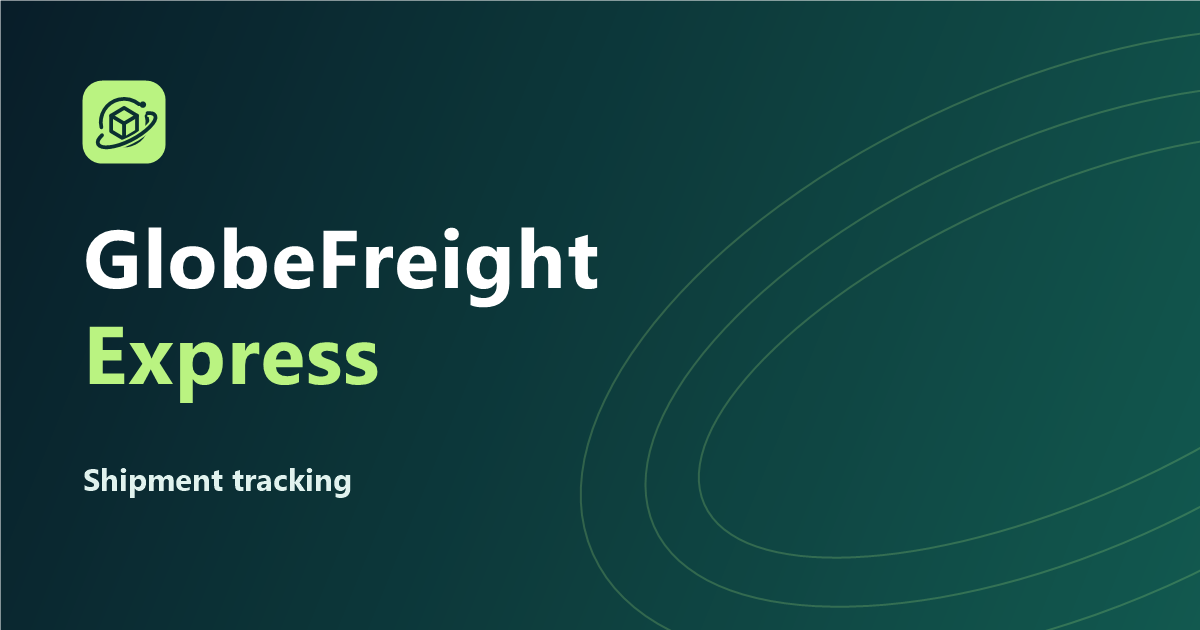
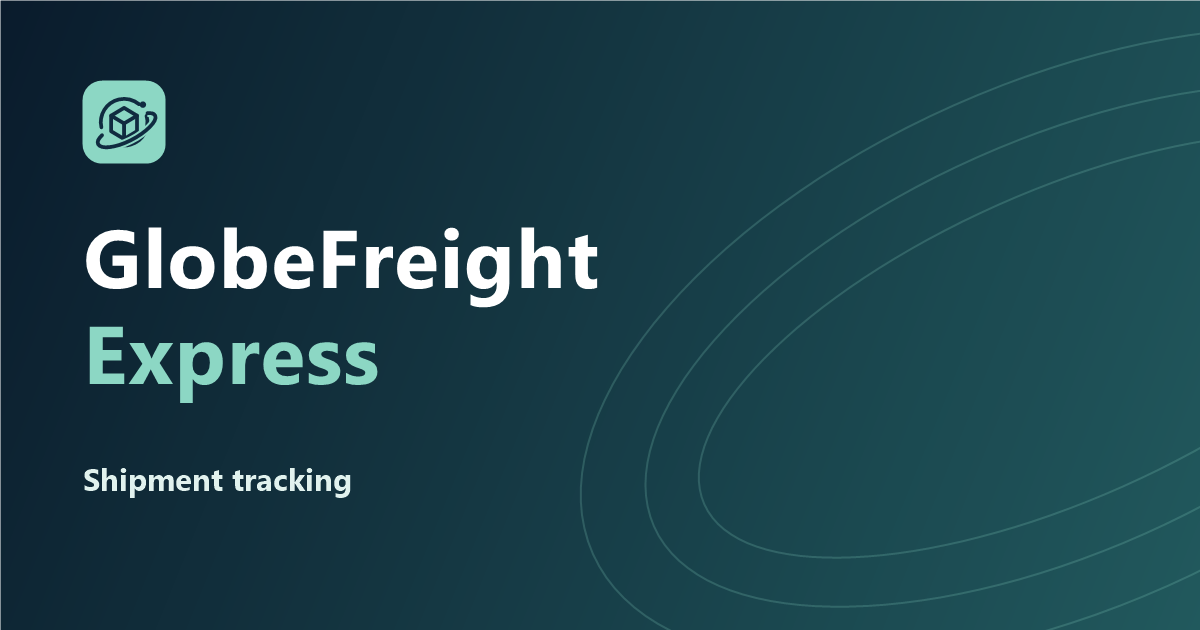
colour

Changed region(s): [[0.0617, 0.5127, 0.3392, 0.6333], [0.0617, 0.1206, 0.1542, 0.2714]]

diff --git a/site/assets/style.css b/site/assets/style.css
@@ -1,5 +1,5 @@
 @import url('https://fonts.googleapis.com/css2?family=Manrope:wght@400;500;600;700;800&family=Space+Grotesk:wght@500;600;700&display=swap');
-:root{color-scheme:light;--navy:#102630;--deep:#091d26;--ink:#152a32;--muted:#4c626b;--teal:#006457;--lime:#baf381;--paper:#f3f7f7;--line:#dce7e7;--white:#fff;font:16px/1.55 Manrope,system-ui,sans-serif}
+:root{color-scheme:light;--navy:#142c40;--deep:#0a1b2c;--ink:#172c40;--muted:#4b6172;--teal:#096c68;--accent:#8cd7c4;--paper:#f3f6f8;--line:#dce5eb;--white:#fff;font:16px/1.55 Manrope,system-ui,sans-serif}
 *{box-sizing:border-box}
 [hidden]{display:none!important}
 body{margin:0;background:var(--paper);color:var(--ink);min-width:300px}
@@ -13,21 +13,21 @@ button:disabled{opacity:.6;cursor:wait}
 .header{background:var(--deep);color:#fff}
 .header-inner,.footer-inner{display:flex;align-items:center;justify-content:space-between;min-height:76px;gap:1rem}
 .brand{display:inline-flex;align-items:center;gap:.7rem;font-family:"Space Grotesk",system-ui,sans-serif;font-size:1.24rem;font-weight:700;line-height:1.05;letter-spacing:-.04em}
-.brand small{display:block;font-family:Manrope,system-ui,sans-serif;font-size:.72rem;letter-spacing:.21em;margin-top:5px;color:var(--lime)}
-.brand-mark{background:var(--lime);color:var(--deep);border-radius:10px;width:42px;height:42px;display:grid;place-items:center;font-size:1.9rem;line-height:1}
+.brand small{display:block;font-family:Manrope,system-ui,sans-serif;font-size:.72rem;letter-spacing:.21em;margin-top:5px;color:var(--accent)}
+.brand-mark{background:var(--accent);color:var(--deep);border-radius:10px;width:42px;height:42px;display:grid;place-items:center;font-size:1.9rem;line-height:1}
 nav{display:flex;align-items:center;gap:1.65rem;font-weight:700;font-size:.9rem}
 nav a:hover{text-decoration:underline}
 .portal-link{border:1px solid #4c606a;border-radius:8px;padding:.55rem .9rem}
-.hero{min-height:484px;background-color:#102e39;background-image:linear-gradient(90deg,#071d27 3%,rgba(7,29,39,.92) 28%,rgba(7,29,39,.34) 68%,rgba(7,29,39,.11)),url('https://images.unsplash.com/photo-1724597500306-a4cbb7d1324e?auto=format&fit=crop&w=1700&q=82');background-position:center,center 50%;background-size:cover;color:white}
+.hero{min-height:484px;background-color:#102e39;background-image:linear-gradient(90deg,#091d30 3%,rgba(9,29,48,.92) 28%,rgba(9,29,48,.34) 68%,rgba(9,29,48,.11)),url('https://images.unsplash.com/photo-1724597500306-a4cbb7d1324e?auto=format&fit=crop&w=1700&q=82');background-position:center,center 50%;background-size:cover;color:white}
 .hero-inner{padding-block:5.25rem 8rem}
 .eyebrow{display:flex;align-items:center;gap:.55rem;font-size:.875rem;font-weight:800;letter-spacing:.14em;margin:0 0 1rem}
-.eyebrow span{width:21px;height:2px;background:var(--lime)}
+.eyebrow span{width:21px;height:2px;background:var(--accent)}
 h1,h2,h3{font-family:"Space Grotesk",system-ui,sans-serif;line-height:1.1;margin:0;letter-spacing:-.035em}
 .hero h1{font-size:clamp(2.65rem,6.1vw,5.15rem);max-width:900px}
-.hero em{font-style:normal;color:var(--lime)}
+.hero em{font-style:normal;color:var(--accent)}
 .hero p:last-child{margin:1.35rem 0 0;color:#d8e5e9;font-size:clamp(1rem,2vw,1.15rem);max-width:510px}
 .tracking-area{position:relative;margin-top:-65px;padding-bottom:4rem;scroll-margin-top:1rem}
-.card{background:white;border:1px solid var(--line);border-radius:17px;padding:clamp(1.05rem,3.5vw,2rem);box-shadow:0 12px 35px #1026300a}
+.card{background:white;border:1px solid var(--line);border-radius:17px;padding:clamp(1.05rem,3.5vw,2rem);box-shadow:0 12px 35px #142c400a}
 .tracking-card{max-width:900px}
 .tracking-heading{display:flex;gap:1rem;align-items:center;margin-bottom:1.2rem}
 .tracking-heading h2{font-size:clamp(1.45rem,4vw,2rem)}
@@ -90,16 +90,16 @@ code{overflow-wrap:anywhere}
 .staff-create .status-message{margin-bottom:0}
 
 /* Team dashboard */
-.header{border-bottom:1px solid #29424b}
+.header{border-bottom:1px solid #263e51}
 .brand-mark{display:block;flex:none}
-.portal-heading{position:relative;isolation:isolate;overflow:hidden;padding:clamp(1.3rem,4vw,2.6rem);min-height:182px;border-radius:18px;color:#fff;background:radial-gradient(ellipse at 95% 30%,#126459 0%,transparent 55%),linear-gradient(112deg,#091f2b,#103540)}
+.portal-heading{position:relative;isolation:isolate;overflow:hidden;padding:clamp(1.3rem,4vw,2.6rem);min-height:182px;border-radius:18px;color:#fff;background:radial-gradient(ellipse at 95% 30%,#245d60 0%,transparent 55%),linear-gradient(112deg,#102538,#193b49)}
 .portal-heading::before,.portal-heading::after{content:"";position:absolute;z-index:-1;pointer-events:none;border:1px solid #a3edba55;border-radius:50%;width:460px;height:218px;right:-60px;top:-60px;transform:rotate(-24deg)}
 .portal-heading::after{width:530px;height:310px;top:-47px;right:-125px;opacity:.6}
-.portal .eyebrow{color:#baf381}
-.portal .eyebrow span{background:#baf381}
+.portal .eyebrow{color:#8cd7c4}
+.portal .eyebrow span{background:#8cd7c4}
 .portal-actions{display:flex;flex-wrap:wrap;gap:.55rem}
-.portal-actions #new-shipment{background:#baf381;color:#172b23}
-.portal-actions #logout{border-color:#598078;color:#fff;background:#13373e}
+.portal-actions #new-shipment{background:#8cd7c4;color:#172b23}
+.portal-actions #logout{border-color:#598078;color:#fff;background:#193748}
 .portal-identity{color:#d0e2e4;margin:.65rem 0 0;overflow-wrap:anywhere}
 .dashboard-metrics{display:grid;grid-template-columns:repeat(3,minmax(0,1fr));gap:1rem;margin-bottom:1.1rem}
 .metric{display:flex;gap:.85rem;align-items:flex-start;padding:1.15rem;min-height:110px}
@@ -128,12 +128,12 @@ code{overflow-wrap:anywhere}
 .brand-mark{object-fit:contain;background:transparent}
 .icon-box svg,.milestone-icon svg,.metric-icon svg{display:block;width:23px;height:23px}
 /* Public homepage navigation and help */
-.skip-link{position:absolute;z-index:2;top:.6rem;left:.6rem;transform:translateY(-180%);padding:.65rem .9rem;border-radius:7px;background:var(--lime);color:var(--deep);font-weight:800}
+.skip-link{position:absolute;z-index:2;top:.6rem;left:.6rem;transform:translateY(-180%);padding:.65rem .9rem;border-radius:7px;background:var(--accent);color:var(--deep);font-weight:800}
 .skip-link:focus{transform:none}
 .header-inner{gap:1.5rem}
 .main-nav{gap:clamp(.8rem,2vw,1.6rem)}
 .main-nav a{white-space:nowrap}
-.main-nav .portal-link{color:var(--lime);border-color:#56736c}
+.main-nav .portal-link{color:var(--accent);border-color:#587384}
 .tracking-area{padding-bottom:0}
 .tracking-help-link{display:inline-block;margin-top:.75rem}
 .home-milestones{padding-block:clamp(2.4rem,6vw,4.4rem)}
@@ -142,7 +142,7 @@ code{overflow-wrap:anywhere}
 .home-milestones .milestones{gap:1rem;margin-top:1.4rem}
 .home-milestones article{background:#fff;border:1px solid var(--line);border-radius:13px;padding:1rem;min-width:0}
 .home-milestones h3{font-size:1.2rem}
-.home-help{background:#e9f2ef;border-block:1px solid #d6e6df;padding-block:clamp(2rem,5vw,3.8rem)}
+.home-help{background:#edf4f4;border-block:1px solid #d9e7ea;padding-block:clamp(2rem,5vw,3.8rem)}
 .help-grid{display:grid;grid-template-columns:minmax(210px,1fr) minmax(0,1.7fr);gap:clamp(1rem,4vw,3rem)}
 .faq-list{display:grid;gap:.55rem}
 .faq-list details{background:#fff;border:1px solid #d6e5df;border-radius:10px;padding:.85rem 1rem}
@@ -154,14 +154,14 @@ code{overflow-wrap:anywhere}
 .footer-nav{display:grid;grid-template-columns:repeat(2,minmax(0,1fr));align-items:start;gap:1.3rem;font-size:.9375rem}
 .footer-nav h2{color:#fff;font-size:1.05rem;margin-bottom:.7rem}
 .footer-nav a{display:block;width:fit-content;margin-top:.45rem}
-.footer-bottom{border-top:1px solid #29424b;display:flex;justify-content:space-between;gap:.8rem;padding-block:1rem;font-size:.875rem}
+.footer-bottom{border-top:1px solid #263e51;display:flex;justify-content:space-between;gap:.8rem;padding-block:1rem;font-size:.875rem}
 .footer-bottom a:hover{text-decoration:underline}
 @media(max-width:780px){.header-inner{flex-wrap:wrap;gap:.85rem;padding-block:.85rem}.main-nav{flex-wrap:wrap}.home-milestones .milestones{grid-template-columns:1fr}.help-grid{grid-template-columns:1fr}}
 @media(max-width:480px){.main-nav a:first-child{display:inline}.main-nav{gap:.45rem .8rem}.main-nav .portal-link{padding:.35rem .55rem}.footer-grid{grid-template-columns:1fr;gap:1.1rem}}
-.company-panel{display:flex;align-items:center;justify-content:space-between;gap:1.5rem;border-radius:18px;padding:clamp(1.3rem,4vw,2.5rem);background:linear-gradient(114deg,#091d26,#10574e);color:#fff}
-.company-panel .eyebrow{color:var(--lime)}
+.company-panel{display:flex;align-items:center;justify-content:space-between;gap:1.5rem;border-radius:18px;padding:clamp(1.3rem,4vw,2.5rem);background:linear-gradient(114deg,#0a1b2c,#10574e);color:#fff}
+.company-panel .eyebrow{color:var(--accent)}
 .company-panel p:last-child{max-width:64ch;margin:.85rem 0 0;color:#e0eeed}
-.section-cta{flex:none;display:inline-block;background:var(--lime);color:var(--deep);padding:.75rem 1rem;border-radius:8px;font-weight:800}
+.section-cta{flex:none;display:inline-block;background:var(--accent);color:var(--deep);padding:.75rem 1rem;border-radius:8px;font-weight:800}
 .section-cta:hover{text-decoration:underline}
 .location-grid{display:grid;grid-template-columns:repeat(3,minmax(0,1fr));gap:1rem;margin-top:1.25rem}
 .location-card{padding:1.25rem}
@@ -171,7 +171,7 @@ code{overflow-wrap:anywhere}
 .contact-section h3{font-size:1.45rem}
 .form-guidance{margin:0;font-size:.9rem}
 .footer-nav{grid-template-columns:repeat(3,minmax(0,1fr))}
-.portal-actions .portal-inbox-button{background:#13373e;color:#fff;border-color:#598078}
+.portal-actions .portal-inbox-button{background:#193748;color:#fff;border-color:#598078}
 .inbox-panel .section-header{border-bottom:1px solid var(--line);padding-bottom:1rem}
 .inbox-panel .section-header p,.inbox-panel .actions{margin:.45rem 0 0}
 .complaint-record{border:1px solid var(--line);border-radius:10px;margin-block:.8rem;padding:.9rem 1rem;overflow-wrap:anywhere}
@@ -230,24 +230,24 @@ code{overflow-wrap:anywhere}
 .booking-card textarea,.booking-panel textarea{min-height:7rem}
 .booking-sensitive{white-space:pre-wrap}
 /* Public site pages */
-.hero{background-image:linear-gradient(90deg,#071d27 2%,rgba(7,29,39,.93) 28%,rgba(7,29,39,.34) 69%,rgba(7,29,39,.11)),url('freight-ocean.jpg')}
+.hero{background-image:linear-gradient(90deg,#091d30 2%,rgba(9,29,48,.93) 28%,rgba(9,29,48,.34) 69%,rgba(9,29,48,.11)),url('freight-ocean.jpg')}
 .home-hero{min-height:555px}
 .home-hero .hero-inner{padding-block:clamp(4.5rem,9vw,7.5rem)}
-.home-hero .eyebrow{color:var(--lime)}
+.home-hero .eyebrow{color:var(--accent)}
 .home-hero .hero-inner>p:not(.eyebrow){color:#dbe9e9;font-size:1.125rem;max-width:545px;margin:1.2rem 0 0}
 .hero-actions{display:flex;align-items:center;flex-wrap:wrap;gap:.7rem;margin-top:1.7rem}
-.hero-secondary{display:inline-block;padding:.75rem 1rem;border:1px solid #91aaa7;border-radius:8px;color:white;font-weight:800;background:#102b34}
+.hero-secondary{display:inline-block;padding:.75rem 1rem;border:1px solid #91aaa7;border-radius:8px;color:white;font-weight:800;background:#142e43}
 .hero-secondary:hover{text-decoration:underline}
-.header-service{border-bottom:1px solid #29454d;background:#071820;color:#c8dbdc;font-size:.875rem}
+.header-service{border-bottom:1px solid #263f53;background:#091625;color:#c8dbdc;font-size:.875rem}
 .header-service .shell{display:flex;justify-content:space-between;gap:1rem;padding-block:.43rem}
 .header-service a:hover{text-decoration:underline}
 .header .brand{white-space:nowrap}
 .main-nav{gap:clamp(.55rem,1.4vw,1.4rem)}
-.main-nav a[aria-current=page]:not(.quote-link):not(.portal-link),.header-service a[aria-current=page]{color:var(--lime);text-decoration:underline;text-underline-offset:.35rem}
-.main-nav .quote-link{background:var(--lime);color:var(--deep);padding:.55rem .78rem;border-radius:8px}
-.main-nav .portal-link[aria-current=page]{border-color:var(--lime)}
+.main-nav a[aria-current=page]:not(.quote-link):not(.portal-link),.header-service a[aria-current=page]{color:var(--accent);text-decoration:underline;text-underline-offset:.35rem}
+.main-nav .quote-link{background:var(--accent);color:var(--deep);padding:.55rem .78rem;border-radius:8px}
+.main-nav .portal-link[aria-current=page]{border-color:var(--accent)}
 .home-pathways{position:relative;display:grid;grid-template-columns:repeat(3,minmax(0,1fr));gap:1rem;margin-top:-26px}
-.pathway{display:flex;flex-direction:column;padding:1.35rem;border-top:3px solid #79bf9d}
+.pathway{display:flex;flex-direction:column;padding:1.35rem;border-top:3px solid #6daea3}
 .pathway h2{font-size:clamp(1.25rem,2.4vw,1.65rem)}
 .pathway p,.editorial-band p:not(.eyebrow){color:var(--muted);margin:.65rem 0 .95rem}
 .pathway a{margin-top:auto;color:var(--teal);font-weight:800;text-decoration:underline;text-underline-offset:.2rem}
@@ -256,11 +256,11 @@ code{overflow-wrap:anywhere}
 .editorial-band .eyebrow{color:var(--teal)}
 .editorial-band .eyebrow span{background:var(--teal)}
 .editorial-band p:not(.eyebrow){margin-top:0}
-.page-mast{position:relative;isolation:isolate;overflow:hidden;background:radial-gradient(ellipse at 90% 5%,#186b5c 0%,transparent 52%),linear-gradient(110deg,#0a202b,#133744);color:#fff}
+.page-mast{position:relative;isolation:isolate;overflow:hidden;background:radial-gradient(ellipse at 90% 5%,#205b5f 0%,transparent 52%),linear-gradient(110deg,#102538,#18394c);color:#fff}
 .page-mast::after{content:"";position:absolute;z-index:-1;right:-8%;top:-155px;width:570px;height:380px;border-radius:50%;border:1px solid #afeaa94d;box-shadow:0 0 0 36px #afeaa914,0 0 0 77px #afeaa90a;transform:rotate(-25deg);pointer-events:none}
 .page-mast>.shell{padding-block:clamp(2.6rem,7vw,5rem)}
 .page-mast h1{font-size:clamp(2.45rem,7vw,4.75rem);max-width:880px}
-.page-mast .eyebrow{color:var(--lime)}
+.page-mast .eyebrow{color:var(--accent)}
 .page-mast p:last-child{max-width:58ch;color:#d9e8e9;margin:.95rem 0 0;font-size:clamp(1rem,2vw,1.16rem)}
 .page-tracking{margin-top:0;padding-block:clamp(1.7rem,5vw,3.6rem)}
 .page-tracking .tracking-card,.page-tracking .results{max-width:920px}
@@ -271,24 +271,24 @@ code{overflow-wrap:anywhere}
 .editorial-list{padding-left:1.25rem}
 .editorial-list li{padding:.29rem 0}
 .reading-grid{display:grid;grid-template-columns:repeat(2,minmax(0,1fr));gap:1rem;margin-block:1.4rem}
-.reading-grid article{border-left:3px solid #7bb797;background:#e9f2ef;padding:1.1rem}
+.reading-grid article{border-left:3px solid #7bb797;background:#edf4f4;padding:1.1rem}
 .reading-grid p{margin:.4rem 0 0}
 .footer-brand p{max-width:28ch;color:#abc1c3;margin:1rem 0 0}
-.footer-nav a[aria-current=page]{color:var(--lime)}
+.footer-nav a[aria-current=page]{color:var(--accent)}
 /* Role-aware dashboard */
 .dashboard-shell{display:grid;grid-template-columns:205px minmax(0,1fr);align-items:start;gap:1rem}
 .dashboard-main{min-width:0}
 .dashboard-rail{display:grid;gap:.35rem;position:sticky;top:1rem;padding:.8rem;border-radius:13px}
 .dashboard-rail-title{margin:.35rem .6rem .45rem;color:var(--muted);font-size:.875rem;font-weight:800}
 .dashboard-rail button{width:100%;text-align:left;border-color:transparent;padding:.7rem .62rem;font-size:.9rem}
-.dashboard-rail button[aria-current=page]{background:#dff3e9;border-color:#8fc6a9;color:#0d4f44}
+.dashboard-rail button[aria-current=page]{background:#e1f0ed;border-color:#8abeb5;color:#0d4f44}
 .dashboard-intro{margin:.35rem 0 1rem}
 .dashboard-intro h2{font-size:clamp(1.5rem,4vw,2rem)}
 .dashboard-intro p{margin:.4rem 0 0;color:var(--muted)}
 .dashboard-next h2{font-size:1.45rem}
 .dashboard-next>div{display:grid;grid-template-columns:repeat(2,minmax(0,1fr));gap:.75rem;margin-top:1rem}
 .dashboard-shortcut{display:grid;gap:.42rem;text-align:left;padding:1rem;border-color:var(--line);color:var(--ink);line-height:1.4}
-.dashboard-shortcut:hover{background:#e9f8f0;filter:none;border-color:#8fc6a9}
+.dashboard-shortcut:hover{background:#e9f8f0;filter:none;border-color:#8abeb5}
 .dashboard-shortcut span{color:var(--muted);font-weight:500;font-size:.89rem}
 #shipment-workspace[data-dashboard-view=overview] [data-dashboard-area]:not([data-dashboard-area=overview]),
 #shipment-workspace[data-dashboard-view=shipments] [data-dashboard-area]:not([data-dashboard-area=shipments]),
@@ -318,3 +318,25 @@ code{overflow-wrap:anywhere}
 #case-lookup{margin-bottom:1rem}
 @media(max-width:850px){.staff-assignments{grid-template-columns:1fr}}
 .badge[data-status="Suspended"]{background:#fcebe6;color:#8a3025}
+/* Compact navigation disclosure for phones and tablets. */
+.menu-toggle,.main-nav .mobile-help-link,.menu-close{display:none}
+@media(max-width:1015px){
+  .header-service{display:none}
+  .header.nav-ready{position:relative;z-index:5}
+  .header.nav-ready .header-inner{min-height:67px;flex-wrap:nowrap;gap:.75rem;padding-block:.65rem}
+  .header.nav-ready .brand{font-size:1.16rem;gap:.55rem}
+  .header.nav-ready .brand-mark{width:38px;height:38px}
+  .header.nav-ready .menu-toggle{display:inline-flex;align-items:center;justify-content:center;gap:.48rem;min-height:44px;padding:.5rem .67rem;background:#142c40;color:#f3f8fc;border:1px solid #506b80;border-radius:8px;font-size:.875rem}
+  .menu-toggle[aria-expanded=true]{background:#203f54;border-color:var(--accent)}
+  .menu-toggle[aria-expanded=true] .menu-bars{display:none}
+  .menu-toggle[aria-expanded=true] .menu-close{display:block}
+  .header.nav-ready .main-nav{display:none;position:absolute;top:100%;left:0;right:0;max-height:calc(100dvh - 68px);overflow:auto;padding:.65rem max(1rem,calc((100vw - 920px) / 2)) 1rem;gap:.15rem;background:#102538;border-top:1px solid #30495e;border-bottom:1px solid #30495e;box-shadow:0 16px 24px #09192840}
+  .header.nav-ready .menu-toggle[aria-expanded=true] + .main-nav{display:grid}
+  .header.nav-ready .main-nav a{display:flex;align-items:center;min-height:44px;padding:.63rem .75rem;border-radius:7px;color:#eaf3f8;font-size:.95rem}
+  .header.nav-ready .main-nav a[aria-current=page]{background:#25475b;color:#aceddc;text-decoration:none}
+  .header.nav-ready .main-nav a:hover{background:#25475b;text-decoration:none}
+  .header.nav-ready .main-nav .quote-link{margin-top:.3rem;background:var(--accent);color:var(--deep)}
+  .header.nav-ready .main-nav .quote-link:hover{background:#a6e5d4}
+  .header.nav-ready .main-nav .portal-link{border-color:#526d83;margin-top:.2rem}
+  .main-nav .mobile-help-link{display:inline-flex}
+}

diff --git a/site/index.html b/site/index.html
@@ -10,15 +10,16 @@
   <meta property="og:title" content="GlobeFreight Express | Freight, Tracking &amp; Support">
   <meta property="og:description" content="Plan a shipment, follow its progress, and get support when you need it.">
   <meta property="og:url" content="__GLOBEFREIGHT_SITE_URL__/">
-  <meta property="og:image" content="__GLOBEFREIGHT_SITE_URL__/assets/link-preview.png?v=2">
+  <meta property="og:image" content="__GLOBEFREIGHT_SITE_URL__/assets/link-preview.png?v=3">
   <meta property="og:image:width" content="1200">
   <meta property="og:image:height" content="630">
   <meta property="og:image:alt" content="GlobeFreight Express shipment tracking">
   <meta name="twitter:card" content="summary_large_image">
-  <link rel="icon" type="image/svg+xml" href="assets/globe-mark.svg?v=2">
-  <link rel="apple-touch-icon" href="assets/apple-touch-icon.png?v=2">
+  <link rel="icon" type="image/svg+xml" href="assets/globe-mark.svg?v=3">
+  <link rel="apple-touch-icon" href="assets/apple-touch-icon.png?v=3">
   <title>GlobeFreight Express | Freight, Tracking &amp; Support</title>
   <link rel="stylesheet" href="assets/style.css">
+  <script defer src="assets/header.js"></script>
   <script defer src="assets/business-details.js"></script>
   <script defer src="assets/qrcode-generator.js"></script>
   <script defer src="assets/app.js"></script>
@@ -31,14 +32,22 @@
 <header class="header" id="page-top">
   <div class="header-service"><div class="shell"><span>Freight &amp; logistics</span><a href="#tracking-help">Help center</a></div></div>
   <div class="shell header-inner">
-    <a class="brand" href="#" data-home-link aria-label="GlobeFreight Express home"><img class="brand-mark" src="assets/globe-mark.svg?v=2" alt="" width="42" height="42"><span>GlobeFreight <small>EXPRESS</small></span></a>
-    <nav class="main-nav" aria-label="Main navigation">
+    <a class="brand" href="#" data-home-link aria-label="GlobeFreight Express home"><img class="brand-mark" src="assets/globe-mark.svg?v=3" alt="" width="42" height="42"><span>GlobeFreight <small>EXPRESS</small></span></a>
+    <button class="menu-toggle" type="button" id="menu-toggle" aria-expanded="false" aria-controls="main-navigation" hidden>
+      <svg viewBox="0 0 24 24" width="21" height="21" fill="none" stroke="currentColor" stroke-width="1.8" stroke-linecap="round" aria-hidden="true" focusable="false">
+        <path class="menu-bars" d="M4 6h16M4 12h16M4 18h16"/>
+        <path class="menu-close" d="m6 6 12 12M18 6 6 18"/>
+      </svg>
+      <span id="menu-label">Menu</span>
+    </button>
+    <nav class="main-nav" id="main-navigation" aria-label="Main navigation">
       <a href="#" data-home-link>Home</a>
       <a href="#tracking">Tracking</a>
       <a href="#about">About us</a>
       <a href="#design-print">Design &amp; print</a>
       <a class="quote-link" href="#quote">Get a quote</a>
       <a href="#contact">Contact</a>
+      <a class="mobile-help-link" href="#tracking-help">Help center</a>
       <a class="portal-link" href="#portal">Team portal</a>
     </nav>
   </div>
@@ -429,7 +438,7 @@
   <div class="shell">
     <div class="footer-grid">
       <div class="footer-brand">
-        <a class="brand" href="#" data-home-link aria-label="GlobeFreight Express home"><img class="brand-mark" src="assets/globe-mark.svg?v=2" alt="" width="42" height="42"><span>GlobeFreight <small>EXPRESS</small></span></a>
+        <a class="brand" href="#" data-home-link aria-label="GlobeFreight Express home"><img class="brand-mark" src="assets/globe-mark.svg?v=3" alt="" width="42" height="42"><span>GlobeFreight <small>EXPRESS</small></span></a>
         <p>Shipment planning, tracking, and support from quote through delivery.</p>
       </div>
       <nav class="footer-nav" aria-label="Footer navigation">

diff --git a/site/assets/header.js b/site/assets/header.js
@@ -1,0 +1,32 @@
+(() => {
+  const toggle = document.getElementById('menu-toggle');
+  const navigation = document.getElementById('main-navigation');
+  const label = document.getElementById('menu-label');
+  const header = document.getElementById('page-top');
+  const mobile = window.matchMedia('(max-width: 1015px)');
+
+  function setMenu(open, returnFocus = false) {
+    toggle.setAttribute('aria-expanded', String(open));
+    label.textContent = open ? 'Close' : 'Menu';
+    if (returnFocus) toggle.focus();
+  }
+
+  toggle.hidden = false;
+  header.classList.add('nav-ready');
+  toggle.addEventListener('click', () => setMenu(toggle.getAttribute('aria-expanded') !== 'true'));
+  navigation.addEventListener('click', event => {
+    if (event.target.closest('a')) setMenu(false);
+  });
+  document.addEventListener('click', event => {
+    if (!header.contains(event.target)) setMenu(false);
+  });
+  document.addEventListener('keydown', event => {
+    if (event.key === 'Escape' && mobile.matches && toggle.getAttribute('aria-expanded') === 'true') {
+      setMenu(false, true);
+    }
+  });
+  mobile.addEventListener('change', event => {
+    if (!event.matches) setMenu(false);
+  });
+  window.addEventListener('hashchange', () => setMenu(false));
+})();

diff --git a/site/assets/team-tools.js b/site/assets/team-tools.js
@@ -228,7 +228,7 @@ async function printShipmentLabel(shipment, url) {
   qr.addData(url.href);
   qr.make();
   const mark = el('img');
-  mark.src = siteAsset('globe-mark.svg?v=2');
+  mark.src = siteAsset('globe-mark.svg?v=3');
   mark.alt = '';
   const brand = el('p', undefined, 'label-brand');
   brand.append(mark, 'GlobeFreight Express');
